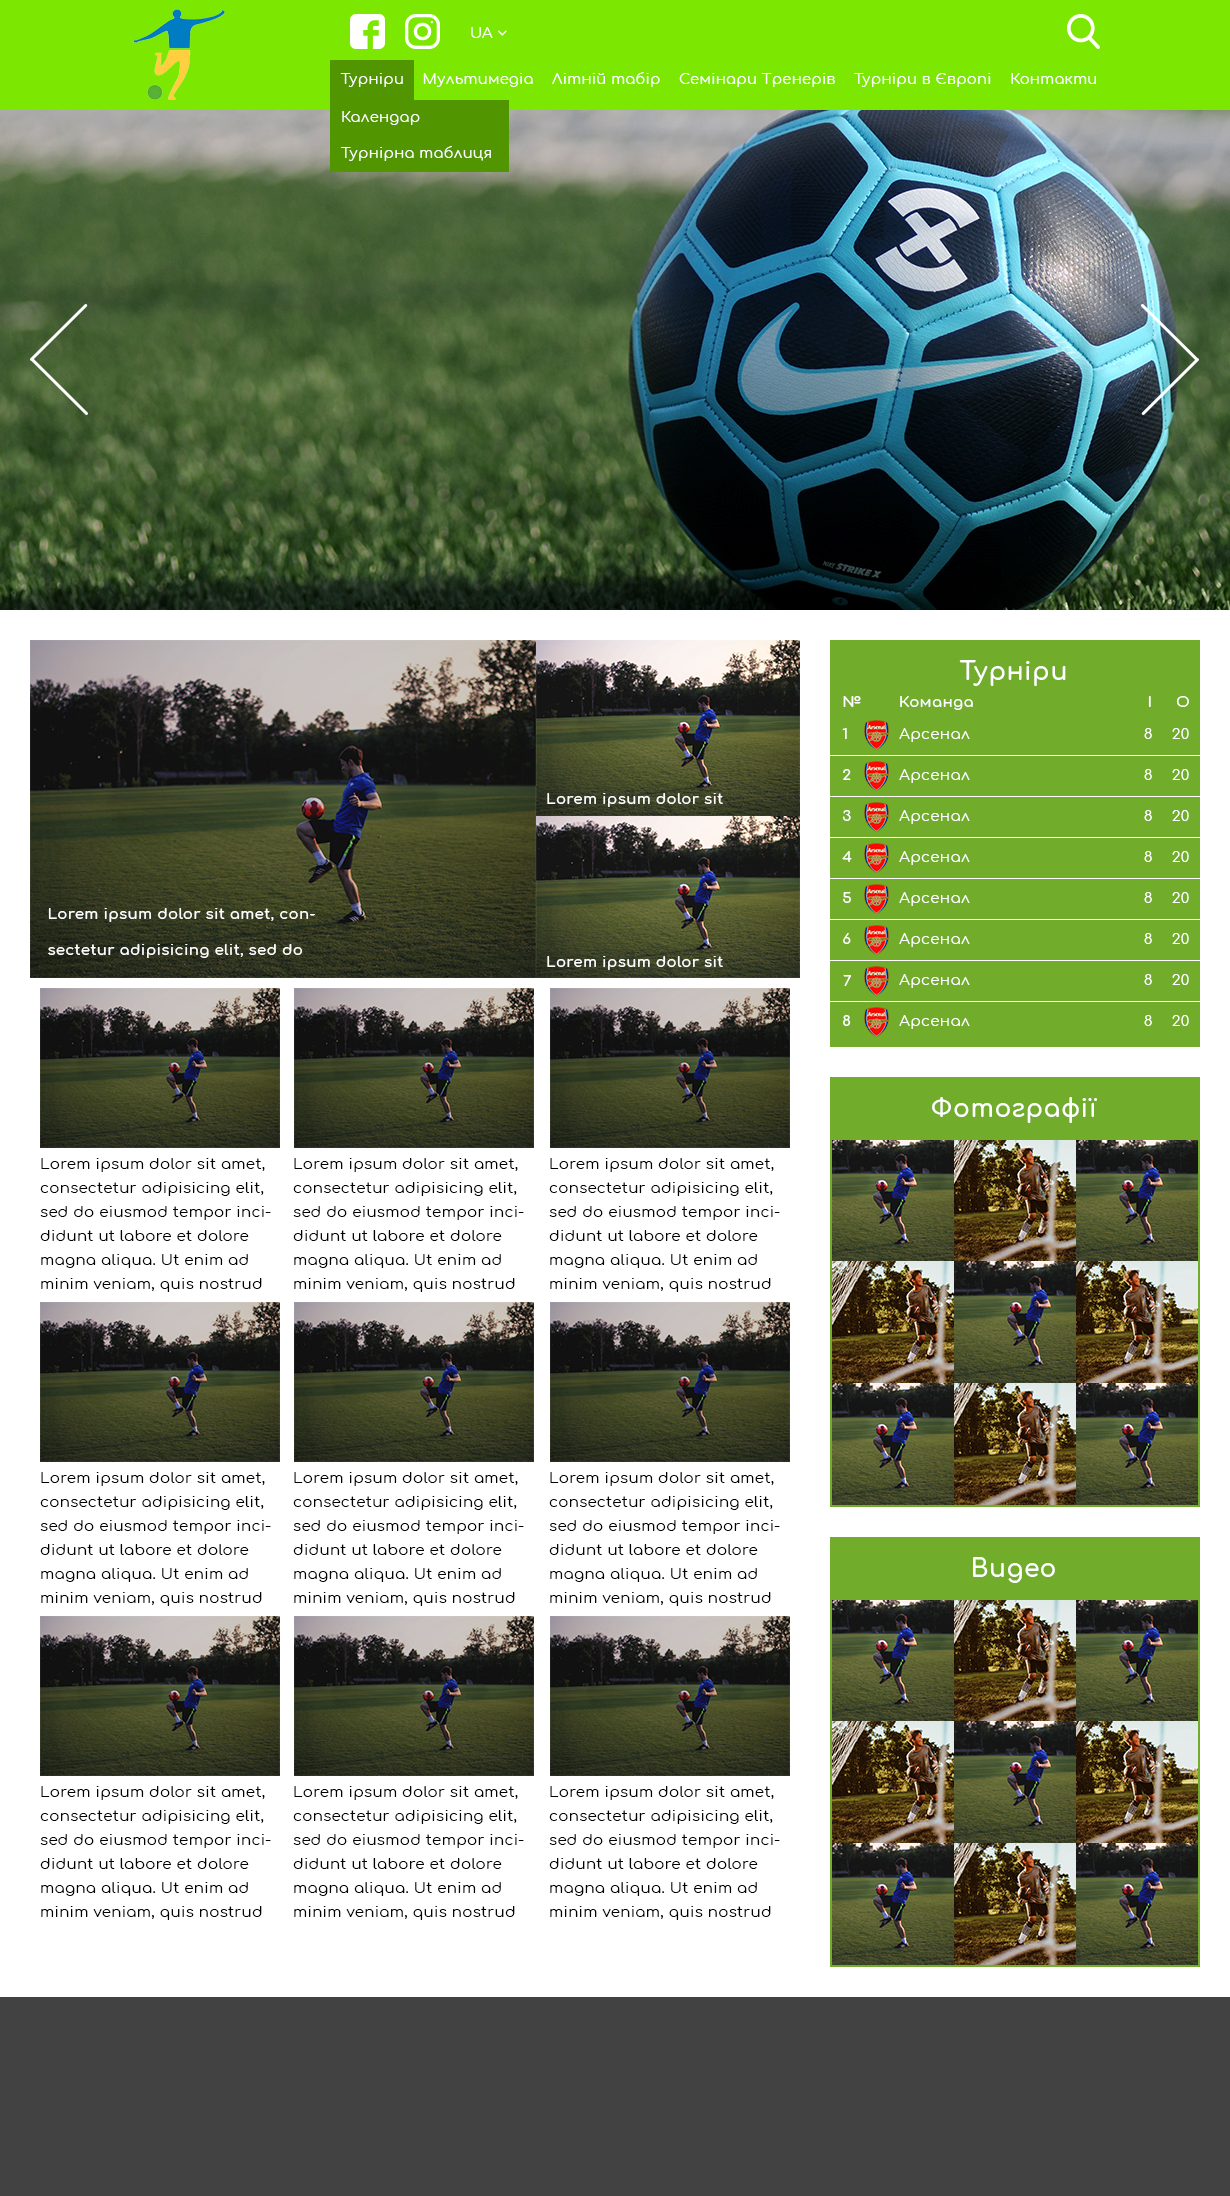
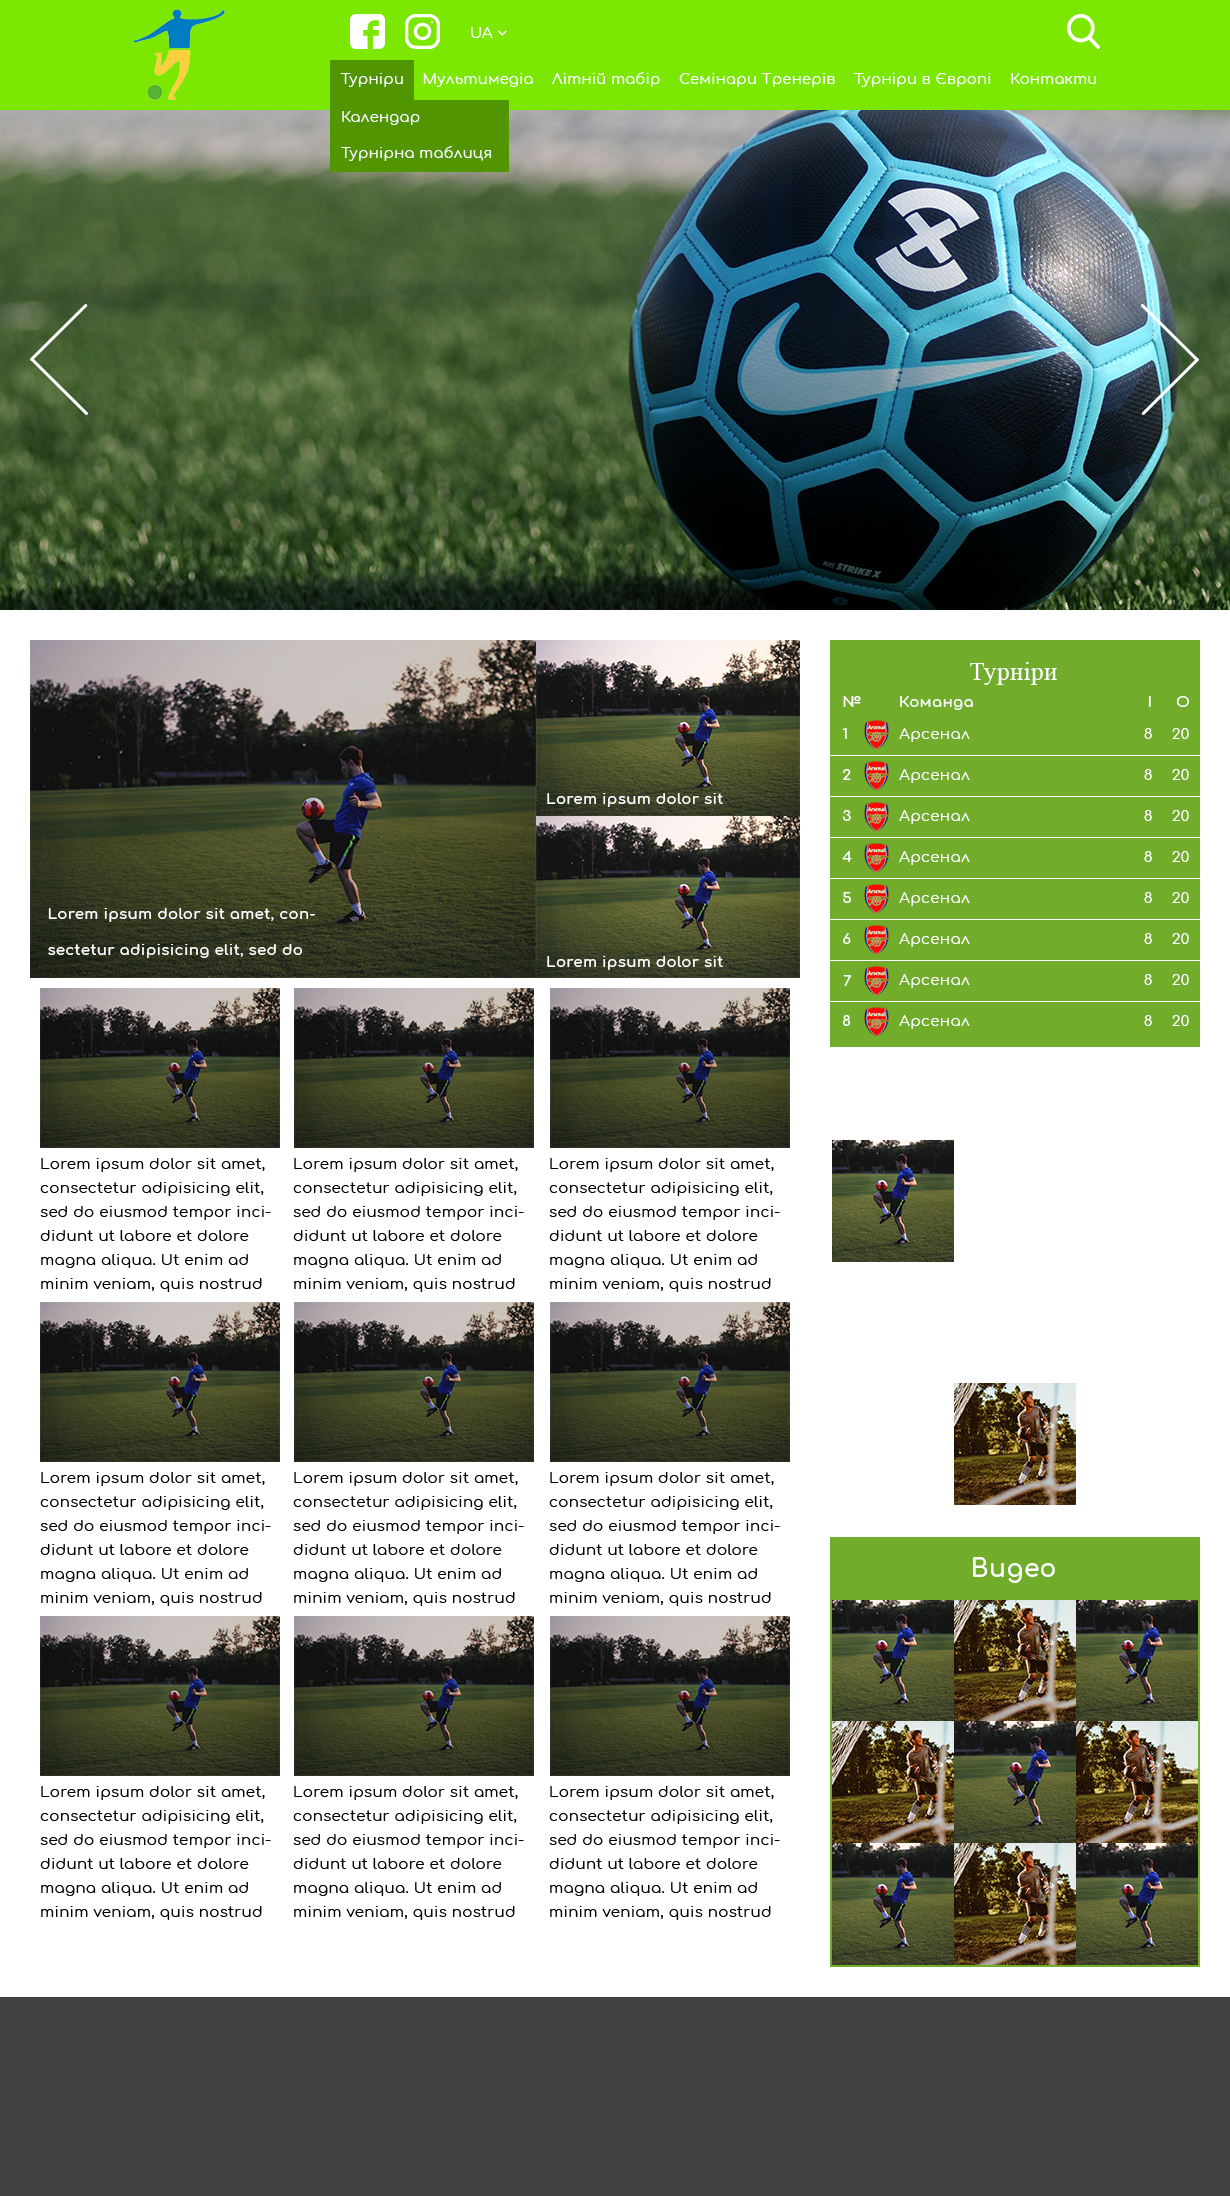
resp fix

diff --git a/index.html b/index.html
@@ -134,66 +134,66 @@
                 <table>
                   <thead>
                     <tr>
-                      <th>№</th>
-                      <th></th>
-                      <th>Команда</th>
-                      <th>І</th>
-                      <th>О</th>
+                      <th class="number">№</th>
+                      <th class="team_logo"></th>
+                      <th class="team">Команда</th>
+                      <th class="games">І</th>
+                      <th class="point">О</th>
                     </tr>
                   </thead>
                   <tbody>
                     <tr>
                       <td>1</td>
-                      <td>1</td>
+                      <td><img src="img/min/arsenal.png" alt="arsenal"></td>
                       <td>Арсенал</td>
                       <td>8</td>
                       <td>20</td>
                     </tr>
                     <tr>
                       <td>2</td>
-                      <td>2</td>
+                      <td><img src="img/min/arsenal.png" alt="arsenal"></td>
                       <td>Арсенал</td>
                       <td>8</td>
                       <td>20</td>
                     </tr>
                     <tr>
                       <td>3</td>
-                      <td>3</td>
+                      <td><img src="img/min/arsenal.png" alt="arsenal"></td>
                       <td>Арсенал</td>
                       <td>8</td>
                       <td>20</td>
                     </tr>
                     <tr>
                       <td>4</td>
-                      <td>4</td>
+                      <td><img src="img/min/arsenal.png" alt="arsenal"></td>
                       <td>Арсенал</td>
                       <td>8</td>
                       <td>20</td>
                     </tr>
                     <tr>
                       <td>5</td>
-                      <td>5</td>
+                      <td><img src="img/min/arsenal.png" alt="arsenal"></td>
                       <td>Арсенал</td>
                       <td>8</td>
                       <td>20</td>
                     </tr>
                     <tr>
                       <td>6</td>
-                      <td>6</td>
+                      <td><img src="img/min/arsenal.png" alt="arsenal"></td>
                       <td>Арсенал</td>
                       <td>8</td>
                       <td>20</td>
                     </tr>
                     <tr>
                       <td>7</td>
-                      <td>7</td>
+                      <td><img src="img/min/arsenal.png" alt="arsenal"></td>
                       <td>Арсенал</td>
                       <td>8</td>
                       <td>20</td>
                     </tr>
                     <tr>
                       <td>8</td>
-                      <td>8</td>
+                      <td><img src="img/min/arsenal.png" alt="arsenal"></td>
                       <td>Арсенал</td>
                       <td>8</td>
                       <td>20</td>
@@ -202,7 +202,34 @@
                 </table>
 
             </div>
-
+            <div class="photo">
+                <h2>Фотографії</h2>
+                <div class="photo__img">
+                    <img src="img/min/pic11.png" alt="">
+                    <img src="img/min/pic12.png" alt="">
+                    <img src="img/min/pic11.png" alt="">
+                    <img src="img/min/pic12.png" alt="">
+                    <img src="img/min/pic11.png" alt="">
+                    <img src="img/min/pic12.png" alt="">
+                    <img src="img/min/pic11.png" alt="">
+                    <img src="img/min/pic12.png" alt="">
+                    <img src="img/min/pic11.png" alt="">
+                </div>
+            </div>
+            <div class="photo">
+                <h2>Відео</h2>
+                <div class="photo__img">
+                    <img src="img/min/pic11.png" alt="">
+                    <img src="img/min/pic12.png" alt="">
+                    <img src="img/min/pic11.png" alt="">
+                    <img src="img/min/pic12.png" alt="">
+                    <img src="img/min/pic11.png" alt="">
+                    <img src="img/min/pic12.png" alt="">
+                    <img src="img/min/pic11.png" alt="">
+                    <img src="img/min/pic12.png" alt="">
+                    <img src="img/min/pic11.png" alt="">
+                </div>
+            </div>
         </div>
     </div>
 

diff --git a/css/app.css b/css/app.css
@@ -204,23 +204,32 @@ input[type=search]::-webkit-search-cancel-button { -webkit-appearance: none; }
 }
 .topnews{
     display: flex;
+    margin-bottom: 10px;
 }
 .topnews__left{
     position: relative;
 }
 .topnews__left h2 {
-    position    : absolute;
-    top     : 250px;
-    left        : 0;
+    position: absolute;
+    top: 250px;
+    left: 0;
+    font-size: 15px;
+    color: white;
+    padding-left: 20px;
+    line-height: 30px;
 }
 .topnews__right-pic{
     position: relative;
     height: 168px;
 }
 .topnews__right-pic h2 {
-    position    : absolute;
-    top     : 120px;
-    left        : 0;
+    position: absolute;
+    top: 145px;
+    left: 0;
+    font-size: 15px;
+    color: white;
+    padding-left: 10px;
+    line-height: 15px;
 }
 .topnews__right-pic img{
     height: 170px;
@@ -233,13 +242,29 @@ input[type=search]::-webkit-search-cancel-button { -webkit-appearance: none; }
     flex-wrap: wrap;
 }
 .colnews__item{
-    width:31%;
+    width:240px;
 }
 
 .tournament{
-    width: 370px;
+    width: 366px;
     color: white;
     background-color: #71ad2b;
+}
+.photo{
+    width: 366px;
+    color: white;
+    background-color: #71ad2b;
+    margin-top: 28px;
+}
+.photo__img{
+    display: flex;
+    flex-wrap: wrap;
+}
+.video{
+    width: 366px;
+    color: white;
+    background-color: #71ad2b;
+    margin-top: 28px;
 }
 body{
     font-family: 'Comfortaa', cursive;
@@ -251,4 +276,78 @@ body{
     margin-top: 10px;
     margin-left: 20px;
     margin-bottom: 10px; 
+}
+
+.tournament h2{
+    text-align: center;
+    padding-top: 20px;
+    padding-bottom: 10px;
+    font-size: 25px;
+}
+.photo h2{
+    text-align: center;
+    padding-top: 20px;
+    padding-bottom: 10px;
+    font-size: 25px;
+}
+.video h2{
+    text-align: center;
+    padding-top: 20px;
+    padding-bottom: 10px;
+    font-size: 25px;
+}
+table{
+    width: 100%;
+    border-bottom: 1px solid #fff;
+    border-collapse: collapse;
+    border-spacing: 0;
+    
+}
+tr{
+    border-bottom: 1px solid #fff;
+    border-collapse: collapse;
+    border-spacing: 0;
+}
+thead tr{
+    border-bottom: 0px solid #fff;
+}
+thead{
+    text-align: left;
+}
+table th, table td {
+    padding: 4px 10px;
+  }
+.number{
+    width: 8%;
+}
+.team_logo{
+    width: 10%;
+}
+.team{
+    width: 72%;
+}
+.games, .point{
+    width: 5%;
+}
+
+
+
+@media screen and (max-width: 1140px) {
+    .topnews {
+    flex-wrap: wrap;
+    justify-content: space-around;
+}
+.topnews__right{
+    display: flex;
+    flex-wrap: wrap;
+}
+
+}
+
+@media screen and (max-width: 886px) {
+    .wrapper-content {
+    justify-content: space-around;
+    flex-wrap: wrap;
+}
+
 }
